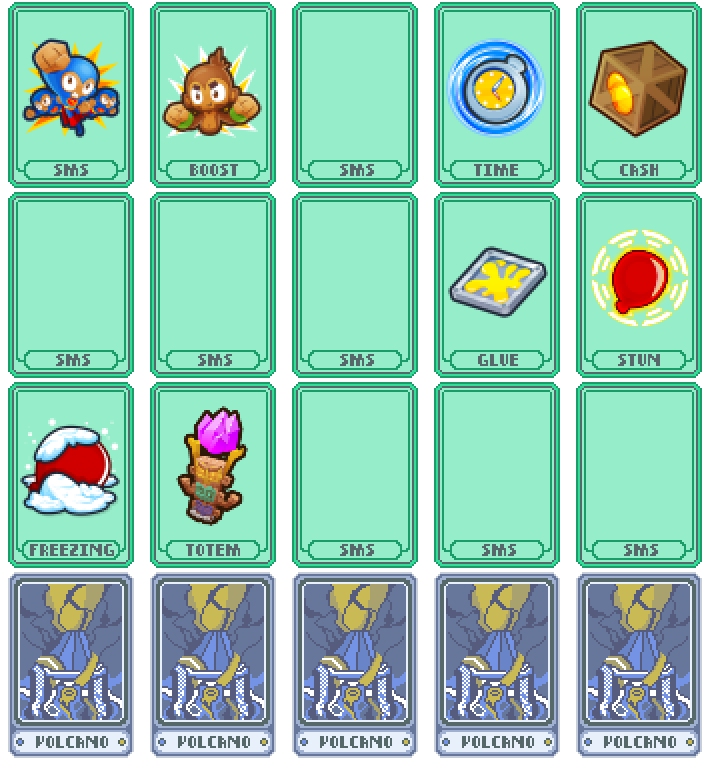
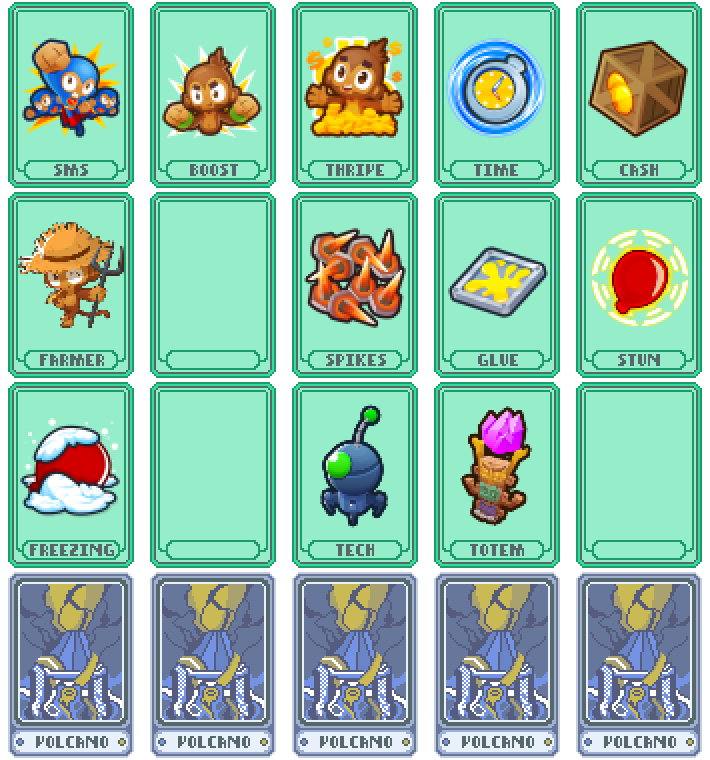
v0.2.4 powers + changes

diff --git a/README.md b/README.md
@@ -1,4 +1,4 @@
-# Bloonlatro v0.2.3
+# Bloonlatro v0.2.4
 
 A Balatro mod that incorporates Bloons Tower Defense into the base game
 
